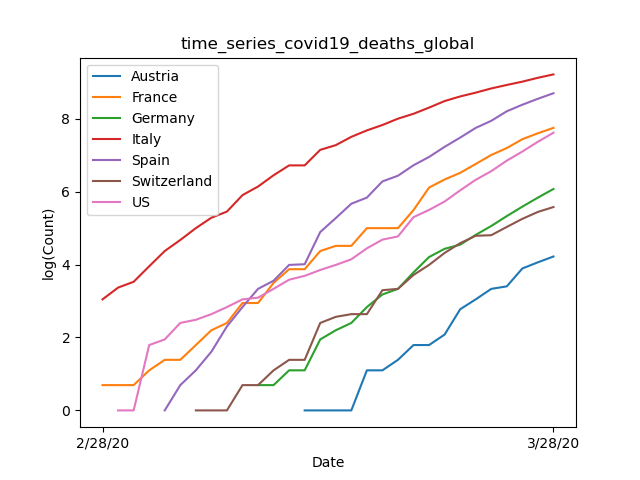
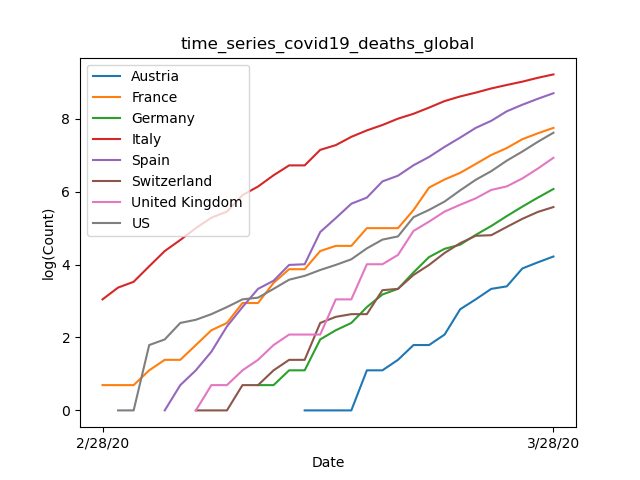
Updated plots with median age scale and United Kingdom data

diff --git a/README.md b/README.md
@@ -5,7 +5,7 @@ This tool allows easy plotting of scaled transformations of COVID-19 time series
 The tool checks a local clone of the time series data for updates and generates new plots, if necessary.
 
 Scaling factors are defined per country in separate JSON configuration files.
-The currently provided scaling factors (population sizes and densities) are taken from English Wikipedia.
+The currently provided scaling factors are taken from English Wikipedia.
 
 ## Tested requirements
 
@@ -30,7 +30,7 @@ make
 
 Notes:
 
-- In order to change the countries and/or scaling factors, modify the JSON configurations in `etc/`.
+- In order to change the countries and/or scaling factors, modify the JSON configuration in `etc/scale_map.json`.
 - If new configurations are provided, modify `Makefile` accordingly. Run `src/covidplotter.py` for more options.
 
 ## Plots
@@ -38,41 +38,80 @@ Notes:
 ### Confirmed
 
 ![](out/time_series_covid19_confirmed_global.png)
+
+#### Confirmed scaled by population size
+
 ![](out/time_series_covid19_confirmed_global.@population.png)
+
+#### Confirmed scaled by population density (per sqkm)
+
 ![](out/time_series_covid19_confirmed_global.@density.png)
+
+#### Confirmed scaled by median age
+
+![](out/time_series_covid19_confirmed_global.@age.png)
 
 ---
 
-Natural Logarithm:
+#### Confirmed transformed by natural logarithm
 
 ![](out/time_series_covid19_confirmed_global.@log.png)
 ![](out/time_series_covid19_confirmed_global.@population@log.png)
 ![](out/time_series_covid19_confirmed_global.@density@log.png)
+![](out/time_series_covid19_confirmed_global.@age@log.png)
+
+---
+---
 
 ### Deaths
 
 ![](out/time_series_covid19_deaths_global.png)
+
+#### Deaths scaled by population size
+
 ![](out/time_series_covid19_deaths_global.@population.png)
+
+#### Deaths scaled by population density (per sqkm)
+
 ![](out/time_series_covid19_deaths_global.@density.png)
+
+#### Deaths scaled by median age
+
+![](out/time_series_covid19_deaths_global.@age.png)
 
 ---
 
-Natural Logarithm:
+#### Deaths transformed by natural logarithm
 
 ![](out/time_series_covid19_deaths_global.@log.png)
 ![](out/time_series_covid19_deaths_global.@population@log.png)
 ![](out/time_series_covid19_deaths_global.@density@log.png)
+![](out/time_series_covid19_deaths_global.@age@log.png)
+
+---
+---
 
 ### Recovered
 
 ![](out/time_series_covid19_recovered_global.png)
+
+#### Recovered scaled by population size
+
 ![](out/time_series_covid19_recovered_global.@population.png)
+
+#### Recovered scaled by population density (per sqkm)
+
 ![](out/time_series_covid19_recovered_global.@density.png)
+
+#### Recovered scaled by median age
+
+![](out/time_series_covid19_recovered_global.@age.png)
 
 ---
 
-Natural Logarithm:
+#### Recovered transformed by natural logarithm
 
 ![](out/time_series_covid19_recovered_global.@log.png)
 ![](out/time_series_covid19_recovered_global.@population@log.png)
 ![](out/time_series_covid19_recovered_global.@density@log.png)
+![](out/time_series_covid19_recovered_global.@age@log.png)
